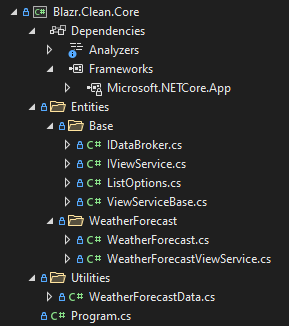
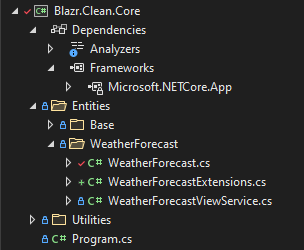
Commit

Changed region(s): [[0.0934, 0.252, 0.9343, 1.0], [0.0, 0.0, 0.5294, 1.0]]

diff --git a/Blazr.Clean.Core/Entities/WeatherForecast/WeatherForecastExtensions.cs b/Blazr.Clean.Core/Entities/WeatherForecast/WeatherForecastExtensions.cs
@@ -1,0 +1,13 @@
+/// ============================================================
+/// Author: Shaun Curtis, Cold Elm Coders
+/// License: Use And Donate
+/// If you use it, donate something to a charity somewhere
+/// ============================================================
+
+namespace Blazr.Clean.Core;
+
+public static class WeatherForecastExtensions
+{
+    public static string TemperatureF(this WeatherForecast value) 
+        => (32 + (value.TemperatureC / 0.5556)).ToString();
+}

diff --git a/Blazr.Clean.Core/Entities/WeatherForecast/WeatherForecast.cs b/Blazr.Clean.Core/Entities/WeatherForecast/WeatherForecast.cs
@@ -15,7 +15,5 @@ public class WeatherForecast
 
     public int TemperatureC { get; set; }
 
-    public int TemperatureF => 32 + (int)(TemperatureC / 0.5556);
-
     public string? Summary { get; set; }
 }

diff --git a/article.md b/article.md
@@ -1,37 +1,56 @@
 # Building a Clean Design Blazor Application
 
-In this article I cover the basics of how to put together a well structured and written Blazor Application.  This is not an attempt at "Blazor Best Practices" or "The Way to write a Blazor Application".  Choose whatever methodologies and coding practices you wish.  Don't develop your first Blazor application without making those choices!
+In this article I cover the basics of how to put together a well structured and written Blazor Application.  It's not an attempt at "Blazor Best Practices" or "This is the Way to write a Blazor Application".
+
+What is does advocate is the need to have a structured framework in which you build your first Blazor application.  I see too many questions on StackOverflow and other platforms where my first reaction to the provided code is "Arghh": UI, business logic and data all mixed up in a component.
+
+Choose whatever methodology you wish.  Just don't start your first Blazor application without one!
+
+Coding practices are more clear cut.  Understand the SOLID principles and CQRS in objects.
 
 I've tried to keep this simple.  I've taken the out-of-the-box Blazor template and rebuilt it concentrating on restructuring the `FetchData` page and the data pipeline behind it.
 
-The Github repository contains a fairly comprehensive set of notes.  This article provides an overview of the project.  For detail go to the repository.
+The Github repository contains a comprehensive set of notes.  This article provides an overview of the project.  For detail go to the repository.
+
+**Entity Framework and Complex Data Entities**
+
+It's common practice to implement complex data structures and relationships in Entity Framework.  It seems an obvious thing to do, and EF makes it easy.  I don't.  Why not? 
+
+It breaks one of my fundimental design principles: business logic belongs in Core.  With EF you're building your business logic, the relationships between your basic data objects, into your data layer.  How do you change out your data store if EF doesn't fully support it?
 
 ## Project Architecture/Design
 
-I apply Clean Design principles to my projects.  The basic architecture looks like this:
+I'm a Clean Design advocate. It advocates a basic architecture that fits well with Blazor and looks like this:
 
 ![Clean Design](./clean-design.png)
 
-This separates code out into three primary domains:
+It separates code into three primary domains:
 
-1. **Data Domain** - this contains all the code specific to the data source.
+1. **Data Domain** - this is what talks to the data store.  It's responsible for getting data from and persisting data to the data store/s.  It doesn't apply logic to that data.
 
-2. **Core/Application Domain** - this contains the application and business logic of the application.
+2. **Core/Application Domain** - this contains all the application and business logic of the application.
 
 3. **UI Domain** - this contains all the UI code.  It's specific to the UI framework used for the application.
 
-The key concept is to remove any dependancies the core domain code has on the data, UI or any support domain code.  The core defines the interfaces it uses to communicate downward with the data domain and upward to the UI.  In principle the data source can be changed from a SQL database to an API and the core domain code doesn't change, or a different front end can be plugged  onto the same core domain code.
+The purpose of this separation is to remove all project dependancies in the core domain code.  The core domain should:
+
+1. Be able to be tested independant of the data domain code
+2. Deployed with alternative data or UI domain code without change.
+
+To achieve this the core defines all communications downward with the data domain and upward to the UI through `interfaces`.
 
 Let's look at how we achieve this is the solution.
 
 ### One Solution Many Projects
 
-The solution has a lot of projects.  That's by design.  Each project represents a code domain or application endpoint.  Using projects we can tightly control and manage our interdependancies, and separate out blocks of code that are used by different application endpoints.  Two examples:
+The solution has a significant number of projects: that's by design.  Each project represents a code domain or application endpoint.  With projects we can control and manage code dependancies.  For example:
 
-1. The Core project has no project dependancies: it doesn't on the data or UI domain code.
-2. The API controllers are used in two application endpoints.  So we break then out into a library project.  They also have specific library requirements which mean we can't mix them with a WASM project code. 
 
-Most of the projects, including the primsry domain projects, are standard libraries.
+1. The Core project has no project dependancies. You can't use classes and other code from the data domain if the data project isn't referenced.  It's also easy to check if you have dependancies you don't want.
+
+2. The API controllers are used in multiple application endpoints, so we break then out into a library project.  They also have specific library requirements which mean we can't mix them with projects referenced by the WASM application build projects. 
+
+Most projects, including the primary domain projects, are standard libraries.
 
 1. Data and Core don't contain any Blazor specific code.
 2. UI is a Razor library.
@@ -40,26 +59,54 @@ Most of the projects, including the primsry domain projects, are standard librar
  
 ### What goes in the Core Domain?
 
-Answer:  Anything it needs to use.
+Answer:  Anything that the core domain code uses.
 
 Here's the Core project.  It's divided into *entities* to keep together all the code modules for each data set e.g. Weather Forecasts.  *Base* contains all the interfaces and base classes.
 
 ![Core Project](core-project-structure.png)
 
-Note the `WeatherForecastViewService` and the `WeatherForecast` data class.  First pass would suggest that data classes belong in the data domain. But, consider who will use them?  All the domains: so based on our clean design dependancy model, they belong in the core domain.
+Our application is very simple so there's no real business logic code.  
+
+WeatherForecast contains:
+
+1. The `WeatherForecast` data class.  Surely that belongs in the data domain?  Consider who will use them?  All the domains including the core domain.  Clean design dictates data classes belong in the core domain.
+
+2. The `WeatherForecastViewService`.  This services the UI components that display and interact with the data.
+
+3. `WeatherForecastExtensions` is a small bit of business logic.  It extends the `WeatherForecast` class to provide `TemperatureF`.  This is a little contrived, but used to demonstrate design principles.  `TemperatureF`is a calculated value.  It doesn't belong in the base data class - it's not a database field!  It's treated here as business logic.  The simplest way to provide it is through a class extension.  
 
 ### Interfaces and Dependancy Injection
 
-We use interfaces to define the communications between our primary domains.
+Interfaces define the communications between our primary domains.  They are used in the Dependancy Injection container to define the loaded concrete class.
+
+In the Blazor Server services declaration below `ServerDataBroker` is loaded as the `IDataBroker` defined service.  Any component or service injecting `IDataBroker` will actually get `ServerDataBroker`.  
+
+```csharp
+services.AddSingleton<IDataBroker, ServerDataBroker>();
+```
+
+The Blazor WebAssembly declaration defines a different concrete service:
+
+```csharp
+services.AddScoped<IDataBroker, APIDataBroker>();
+```
+
+The `WeatherForecastService` that uses `IDataBroker` doesn't care as long it it communicates with it through the `IDataBroker` interface.
+
+```csharp
+public WeatherForecastViewService(IDataBroker dataBroker)
+    : base(dataBroker)
+{ }
+```
 
 #### Core to Data
 
-In this application the core only needs the following functionality from the data domain:
+Our core only needs the following functionality from the data domain:
 
 1. Provide a collection of Weather Forecasts
-2. Add ats Weather Forecast to the data set.
+2. Add a Weather Forecast to the data set.
 
-We can define that in our interface:
+This can be defined in an interface:
 
 ```csharp
 public interface IDataBroker
@@ -69,7 +116,7 @@ public interface IDataBroker
 }
 ```
 
-`GetRecordsAsync` is a CQRS query method that returns an `IEnumerable` constrained collection.  I don't code "get all" methods without constraints: you can never guarantee how many records a query will return.  The `ListOptions` object defines the paging.
+`GetRecordsAsync` is a query method that returns an `IEnumerable` constrained collection.  I don't code "get all" methods without constraints: you can never guarantee how many records a query will return.  The `ListOptions` object defines paging which can be used to constrain the maximum records returned.
 
 ```csharp
 public class ListOptions
@@ -79,14 +126,15 @@ public class ListOptions
 }
 ```
 
-`AddRecordAsync` is a CQRS command method.  It returns a status `bool`.
+`AddRecordAsync` is a command method, returning a status `bool`.
 
-Each method uses generics.  Each call defines which specific data class to retrieve.  We'll see how this gets implemented in the data domain shortly.
+Each method implements generics.  Each call therefore defines the specific data class to retrieve.  We'll see how this gets implemented in the data domain shortly.
 
+This approach removes the need for data set specific data brokers/repository pattern classes.
 
 #### UI to Core
 
-UI to core communications are more complex.  As the UI depends on the Core then strictly there's no need to implement specific code interfaces, just define the public objects and methods/properties.
+UI to core communications are more complex.  As the UI depends on the Core then strictly there's no requirment to implement specific code interfaces.  The public view objects and methods/properties are the interface.
 
 However, interfaces help boilerplate our code.  This application defines an `IViewService` to standardise the normal functionality data set views implement.
 
@@ -119,13 +167,13 @@ Services are loaded into the application in Program.  Herer's the service defini
 
 ## Generics
 
-Generics are an important concept to undertand.  They help you create reusable code that you would otherwise need to repeat for each object type.
+Generics are an important concept to undertand.  They help create reusable code that would otherwise need to repeat for each object type.
 
 The application implements method level generics in the data brokers and class level generics in the view services.
 
 ### Data Broker Generics
 
-Let's look at the `GetRecordsAsync` in the `ServerDataBroker`.
+Let's look at the `GetRecordsAsync` in the `ServerDataBroker` as an example.
  
 ```csharp
 public async ValueTask<IEnumerable<TRecord>> GetRecordsAsync<TRecord>(ListOptions options) where TRecord : class, new()
@@ -155,24 +203,47 @@ public async ValueTask<IEnumerable<TRecord>> GetRecordsAsync<TRecord>(ListOption
 3. Build the query based on the `ListOptions`.
 4. Execute the query asynchronously and return the result.
 
+#### DbContexts
+
+In an async world `DbContext` objects present challenges.  They are single user.  With async data access methods, you can easily try and use a context in one method while another method is still using it.
+
+The solution to the problem is to apply the "unit of work" principle with a `DbContextFactory`.  Each method gets an individual `DbContext` from the factory and uses it for the scope of the method.  The Factory manages the context's, you don't need to.
+
+```csharp
+// usage
+services.AddBlazorServerAppServices<InMemoryDbContext>(services, options => options.UseInMemoryDatabase("TestDb"));
+
+// Extension method to add the Server Application services 
+public static void AddBlazorServerAppServices<TDbContext>(this IServiceCollection services, Action<DbContextOptionsBuilder>? optionsAction)
+    where TDbContext : DbContext
+{
+    services.AddDbContextFactory<TDbContext>(optionsAction);
+    services.AddSingleton<IDataBroker, ServerDataBroker>();
+    services.AddScoped<IViewService<WeatherForecast>, WeatherForecastViewService>();
+}
+```
+
 ### View Generics
 
-`ViewServiceBaae` is the generic implementation of `IViewService`.  
+`ViewServiceBase` is the generic implementation of `IViewService`.  
 
 ```csharp
 public abstract class ViewServiceBase<TRecord> : IViewService<TRecord> where TRecord : class, new()
 ```
+The recordset collection management looks like this: 
 
-`_options` maintains the last `ListOptions` submitted and is used to refreah the list if a CUD operation changes the collection.
+1. `_options` maintains the last `ListOptions` submitted and is used to refreah the list if a CUD operation changes the collection.
 
-`Records` holds the current paged collection.
 ```csharp
 private ListOptions _options = new ListOptions { PageSize = 1000 };
-    
+```
+
+2. `Records` holds the current paged collection.
+```csharp
 public IEnumerable<TRecord> Records { get; protected set; } = new List<TRecord>();
 ```
 
-`GetRecordsAsync` takes the class `TRecord` and uses it to call `GetRecordsAsync` on the data broker.  It saves the submitted `ListOptions` locally and then gets the record set collection and stores it in `Records`.
+3. `GetRecordsAsync` takes the class `TRecord` and uses it to call `GetRecordsAsync` on the data broker.  It saves the submitted `ListOptions` locally and then gets the record set collection and stores it in `Records`.
 ```csharp
 public async ValueTask GetRecordsAsync(ListOptions options)
 {
@@ -202,4 +273,68 @@ The solution contains three different applications:
 2. A standard hosted Blazor Web Assembly Application.
 3. A Dual hosted application from which you can switch between Blazor Server to Blazor Web Assembly.
 
- 
+We'll look at the Dual Web project which looks like this:
+
+ ![Dual Web Project](dual-web-project-structure.png)
+
+It contains:
+
+1. The `wwwroot` folder from Blazor Server.
+2. Two SPA launch server-side Razor files: _Host and _WASM.
+3. `Program`.
+
+```csharp
+var builder = WebApplication.CreateBuilder(args);
+
+// Add services to the container.
+builder.Services.AddRazorPages();
+builder.Services.AddServerSideBlazor();
+
+builder.Services.AddBlazorInMemoryServerAppServices();
+builder.Services.AddControllers().PartManager.ApplicationParts.Add(new AssemblyPart(typeof(Blazr.Clean.Controllers.WeatherForecastController).Assembly));
+
+var app = builder.Build();
+
+// Configure the HTTP request pipeline.
+if (!app.Environment.IsDevelopment())
+{
+    app.UseExceptionHandler("/Error");
+    app.UseHsts();
+}
+
+app.UseHttpsRedirection();
+app.UseStaticFiles();
+
+app.MapWhen(ctx => ctx.Request.Path.StartsWithSegments("/wasm"), app1 =>
+{
+    app1.UseBlazorFrameworkFiles("/wasm");
+    app1.UseRouting();
+    app1.UseEndpoints(endpoints =>
+    {
+        endpoints.MapFallbackToPage("/wasm/{*path:nonfile}", "/_WASM");
+    });
+
+});
+
+app.UseRouting();
+app.MapRazorPages();
+app.MapBlazorHub();
+app.MapControllers();
+app.MapFallbackToPage("/_Host");
+app.Run();
+```
+
+Points:
+
+1. Add the Blazor Server Services
+2. Add the API controllers
+3. Configure an separate middleware path for */wasm* requests.
+
+This path:
+1. Configure the Blazor WebAssembly Middleware mapping to that path.
+2. Maps the WASM endpoint to the _WASM razor file.
+
+The default path:
+1. Configures the Blazor Server middleware.
+2. Configures the Controller middleware.
+3. Maps the fallback endpoint to _Host. 
